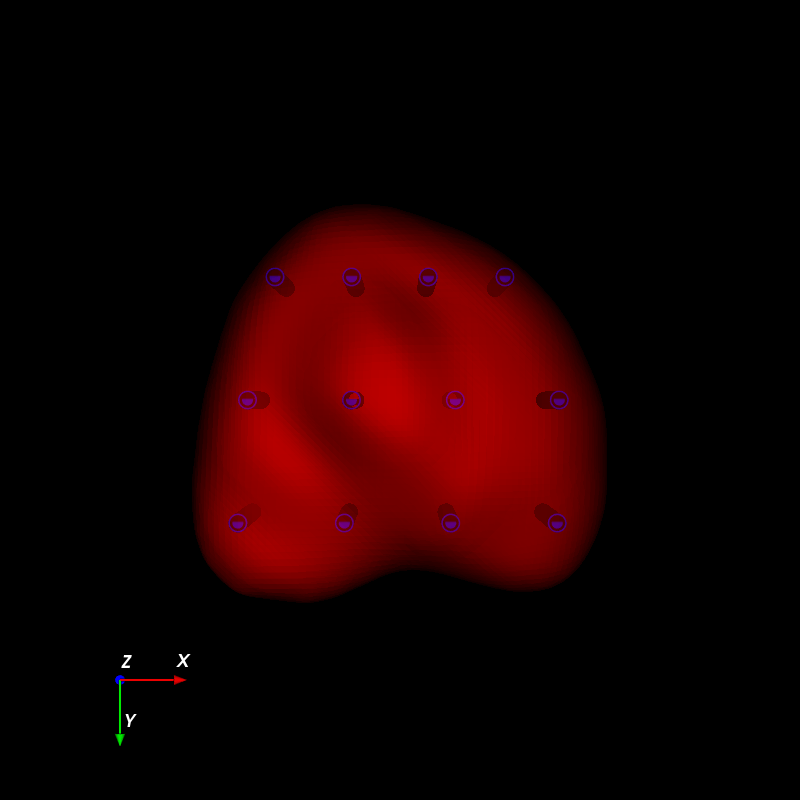
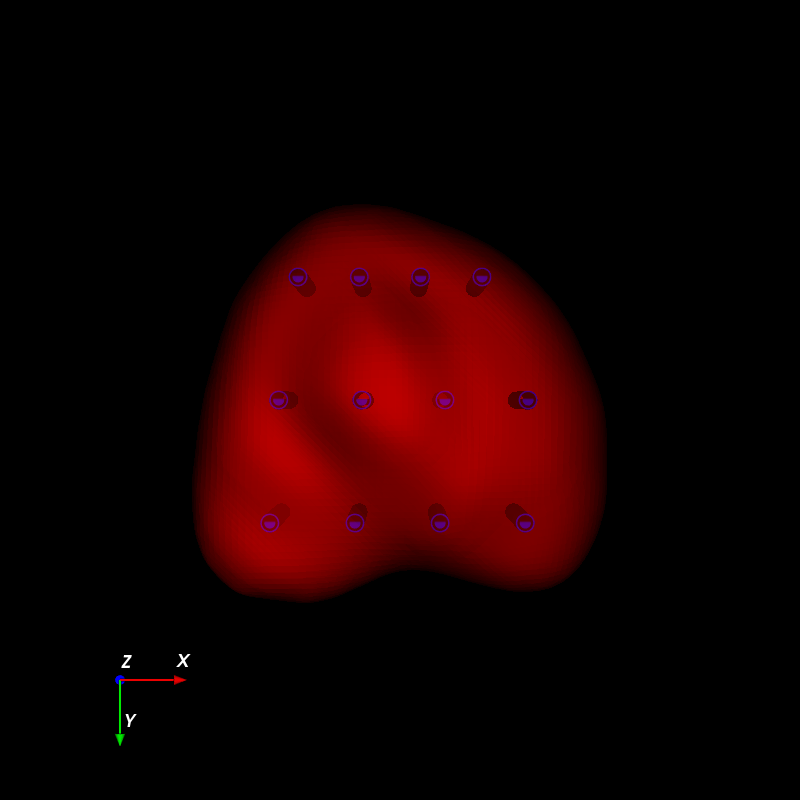
refine plan given erinn idea

diff --git a/8. systematic_biopsy_plan/SystematicPointPlanner3.cpp b/8. systematic_biopsy_plan/SystematicPointPlanner3.cpp
@@ -38,16 +38,16 @@ const std::vector<QVector3D> SystematicPointPlanner::planSystematicPoints(System
 const std::vector<QVector3D> SystematicPointPlanner::twelveCores(vtkSmartPointer<vtkPolyData> modelPolyData, double* bounds)
 {
     // calculate the lines
-    std::vector<double> ratios = { 2.5 / 12, 3.0 / 6, 9.5 / 12 };
+    std::vector<double> yRatios = { 2.5 / 12, 3.0 / 6, 9.5 / 12 };
 
     double xRange = bounds[1] - bounds[0];
     double zMid = (bounds[4] + bounds[5]) / 2;
     std::vector<std::pair<QVector3D, QVector3D>> linePoints;
-    for (int i = 0; i < ratios.size(); i++)
+    for (int i = 0; i < yRatios.size(); i++)
     {
-        double yValue = bounds[2] + (bounds[3] - bounds[2]) * ratios[i];
-        QVector3D p1(bounds[0] - xRange * ratios[i], yValue, zMid);
-        QVector3D p2(bounds[1] + xRange * ratios[i], yValue, zMid);
+        double yValue = bounds[2] + (bounds[3] - bounds[2]) * yRatios[i];
+        QVector3D p1(bounds[0] - xRange * 0.2, yValue, zMid);
+        QVector3D p2(bounds[1] + xRange * 0.2, yValue, zMid);
         linePoints.push_back(std::make_pair(p1, p2));
     }
 
@@ -57,13 +57,14 @@ const std::vector<QVector3D> SystematicPointPlanner::twelveCores(vtkSmartPointer
     // calculate the cores
     std::vector<QVector3D> cores;
     std::vector<QVector3D> tempCores;
+    std::vector<double> coreRatios = { 0.2, 0.4, 0.6, 0.8 };
     for (int i = 0; i < linePoints.size(); i++)
     {
         if (intersectPointsMap[i].size() == 2)
         {
             QVector3D p1 = intersectPointsMap[i][0];
             QVector3D p2 = intersectPointsMap[i][1];
-            tempCores = fourCoresInbetween(p1, p2);
+            tempCores = fourCoresInbetween(p1, p2, coreRatios);
             cores.insert(cores.end(), tempCores.begin(), tempCores.end());
         }
         else if (intersectPointsMap[i].size() == 4)
@@ -89,60 +90,64 @@ const std::vector<QVector3D> SystematicPointPlanner::twentyFourCores(vtkSmartPoi
 {
     std::vector<QVector3D> cores;
     double zMid = (bounds[4] + bounds[5]) / 2;
-    double xRange = bounds[1] - bounds[0];
     double xMid = (bounds[0] + bounds[1]) / 2;
+    double xRange = bounds[1] - bounds[0];
 
     std::vector<std::pair<double, double>> lineRatios = {
         { 6.0 / 12, 2.0 / 12 },
-        { 7.0 / 12, 9.0 / 12 },
-        { 9.0 / 12, 11.0 / 12 },
+        { 7.0 / 12, 8.5 / 12 },
+        { 9.0 / 12, 10.5 / 12 },
     };
-    // left side lines
-    std::vector<std::pair<QVector3D, QVector3D>> leftLinePoints;
-    for (int i = 0; i < lineRatios.size(); i++)
-    {
-        double y1 = bounds[2] + (bounds[3] - bounds[2]) * lineRatios[i].first;
-        double y2 = bounds[2] + (bounds[3] - bounds[2]) * lineRatios[i].second;
-        QVector3D p1(bounds[0], y1, zMid);
-        QVector3D p2(xMid, y2, zMid);
-        leftLinePoints.push_back(std::make_pair(p1, p2));
+    std::vector<double> coreRatios = { 0.3, 0.5, 0.7, 0.9 };
+
+    { // left side lines
+        std::vector<std::pair<QVector3D, QVector3D>> leftLinePoints;
+        for (int i = 0; i < lineRatios.size(); i++)
+        {
+            double y1 = bounds[2] + (bounds[3] - bounds[2]) * lineRatios[i].first;
+            double y2 = bounds[2] + (bounds[3] - bounds[2]) * lineRatios[i].second;
+            QVector3D p1(bounds[0], y1, zMid);
+            QVector3D p2(xMid, y2, zMid);
+            leftLinePoints.push_back(std::make_pair(p1, p2));
+        }
+
+        // intersection points
+        std::map<int, std::vector<QVector3D>> leftIntersectPointsMap = getModelLineIntersectionPoints(modelPolyData, leftLinePoints);
+
+        // add the cores
+        std::vector<QVector3D> leftTempCores;
+        for (int i = 0; i < leftLinePoints.size(); i++)
+        {
+            QVector3D p1 = leftIntersectPointsMap[i][0];
+            QVector3D p2 = leftLinePoints[i].second;
+            leftTempCores = fourCoresInbetween(p1, p2, coreRatios);
+            cores.insert(cores.end(), leftTempCores.begin(), leftTempCores.end());
+        }
     }
 
-    // intersection points
-    std::map<int, std::vector<QVector3D>> leftIntersectPointsMap = getModelLineIntersectionPoints(modelPolyData, leftLinePoints);
+    { // right side lines
+        std::vector<std::pair<QVector3D, QVector3D>> rightLinePoints;
+        for (int i = 0; i < lineRatios.size(); i++)
+        {
+            double y1 = bounds[2] + (bounds[3] - bounds[2]) * lineRatios[i].second;
+            double y2 = bounds[2] + (bounds[3] - bounds[2]) * lineRatios[i].first;
+            QVector3D p1(xMid, y1, zMid);
+            QVector3D p2(bounds[1], y2, zMid);
+            rightLinePoints.push_back(std::make_pair(p1, p2));
+        }
 
-    // add the cores
-    std::vector<QVector3D> leftTempCores;
-    for (int i = 0; i < leftLinePoints.size(); i++)
-    {
-        QVector3D p1 = leftIntersectPointsMap[i][0];
-        QVector3D p2 = leftLinePoints[i].second;
-        leftTempCores = fourCoresInbetween(p1, p2);
-        cores.insert(cores.end(), leftTempCores.begin(), leftTempCores.end());
-    }
+        // intersection points
+        std::map<int, std::vector<QVector3D>> rightleftIntersectPointsMap = getModelLineIntersectionPoints(modelPolyData, rightLinePoints);
 
-    // right side lines
-    std::vector<std::pair<QVector3D, QVector3D>> rightLinePoints;
-    for (int i = 0; i < lineRatios.size(); i++)
-    {
-        double y1 = bounds[2] + (bounds[3] - bounds[2]) * lineRatios[i].second;
-        double y2 = bounds[2] + (bounds[3] - bounds[2]) * lineRatios[i].first;
-        QVector3D p1(xMid, y1, zMid);
-        QVector3D p2(bounds[1], y2, zMid);
-        rightLinePoints.push_back(std::make_pair(p1, p2));
-    }
-
-    // intersection points
-    std::map<int, std::vector<QVector3D>> rightleftIntersectPointsMap = getModelLineIntersectionPoints(modelPolyData, rightLinePoints);
-
-    // add the cores
-    std::vector<QVector3D> rightTempCores;
-    for (int i = 0; i < leftLinePoints.size(); i++)
-    {
-        QVector3D p2 = rightLinePoints[i].first;
-        QVector3D p1 = rightleftIntersectPointsMap[i][rightleftIntersectPointsMap[i].size() - 1];
-        rightTempCores = fourCoresInbetween(p1, p2);
-        cores.insert(cores.end(), rightTempCores.begin(), rightTempCores.end());
+        // add the cores
+        std::vector<QVector3D> rightTempCores;
+        for (int i = 0; i < rightLinePoints.size(); i++)
+        {
+            QVector3D p1 = rightLinePoints[i].first;
+            QVector3D p2 = rightleftIntersectPointsMap[i][rightleftIntersectPointsMap[i].size() - 1];
+            rightTempCores = fourCoresInbetween(p2, p1, coreRatios);
+            cores.insert(cores.end(), rightTempCores.begin(), rightTempCores.end());
+        }
     }
     return cores;
 }
@@ -214,16 +219,18 @@ const std::vector<QVector3D> SystematicPointPlanner::twoCoresInbetween(QVector3D
     return cores;
 }
 
-const std::vector<QVector3D> SystematicPointPlanner::fourCoresInbetween(QVector3D& firstPoint, QVector3D& secondPoint)
+const std::vector<QVector3D> SystematicPointPlanner::fourCoresInbetween(QVector3D& firstPoint, QVector3D& secondPoint, std::vector<double> ratios)
 {
     if (firstPoint.isNull() || secondPoint.isNull())
         return std::vector<QVector3D>();
+    if (ratios.size() < 4)
+        ratios = { 0.2, 0.4, 0.6, 0.8 };
 
     std::vector<QVector3D> cores;
-    cores.push_back(firstPoint + (secondPoint - firstPoint) / 5);
-    cores.push_back(firstPoint + (secondPoint - firstPoint) * 2 / 5);
-    cores.push_back(firstPoint + (secondPoint - firstPoint) * 3 / 5);
-    cores.push_back(firstPoint + (secondPoint - firstPoint) * 4 / 5);
+    cores.push_back(firstPoint + (secondPoint - firstPoint) * ratios[0]);
+    cores.push_back(firstPoint + (secondPoint - firstPoint) * ratios[1]);
+    cores.push_back(firstPoint + (secondPoint - firstPoint) * ratios[2]);
+    cores.push_back(firstPoint + (secondPoint - firstPoint) * ratios[3]);
     return cores;
 }
 

diff --git a/8. systematic_biopsy_plan/SystematicPointPlanner3.h b/8. systematic_biopsy_plan/SystematicPointPlanner3.h
@@ -33,7 +33,7 @@ private:
 
     const QVector3D oneCoreInbetween(QVector3D& firstPoint, QVector3D& secondPoint);
     const std::vector<QVector3D> twoCoresInbetween(QVector3D& firstPoint, QVector3D& secondPoint, int nSection = 6);
-    const std::vector<QVector3D> fourCoresInbetween(QVector3D& firstPoint, QVector3D& secondPoint);
+    const std::vector<QVector3D> fourCoresInbetween(QVector3D& firstPoint, QVector3D& secondPoint, std::vector<double> ratios);
 
     const std::pair<QVector3D, QVector3D> getCutContourBoundsAsPoints(vtkSmartPointer<vtkPolyData> modelPolyData, double zline);
     const std::map<int, std::vector<QVector3D>> getModelLineIntersectionPoints(vtkSmartPointer<vtkPolyData> modelPolyData, std::vector<std::pair<QVector3D, QVector3D>> linePoints);
